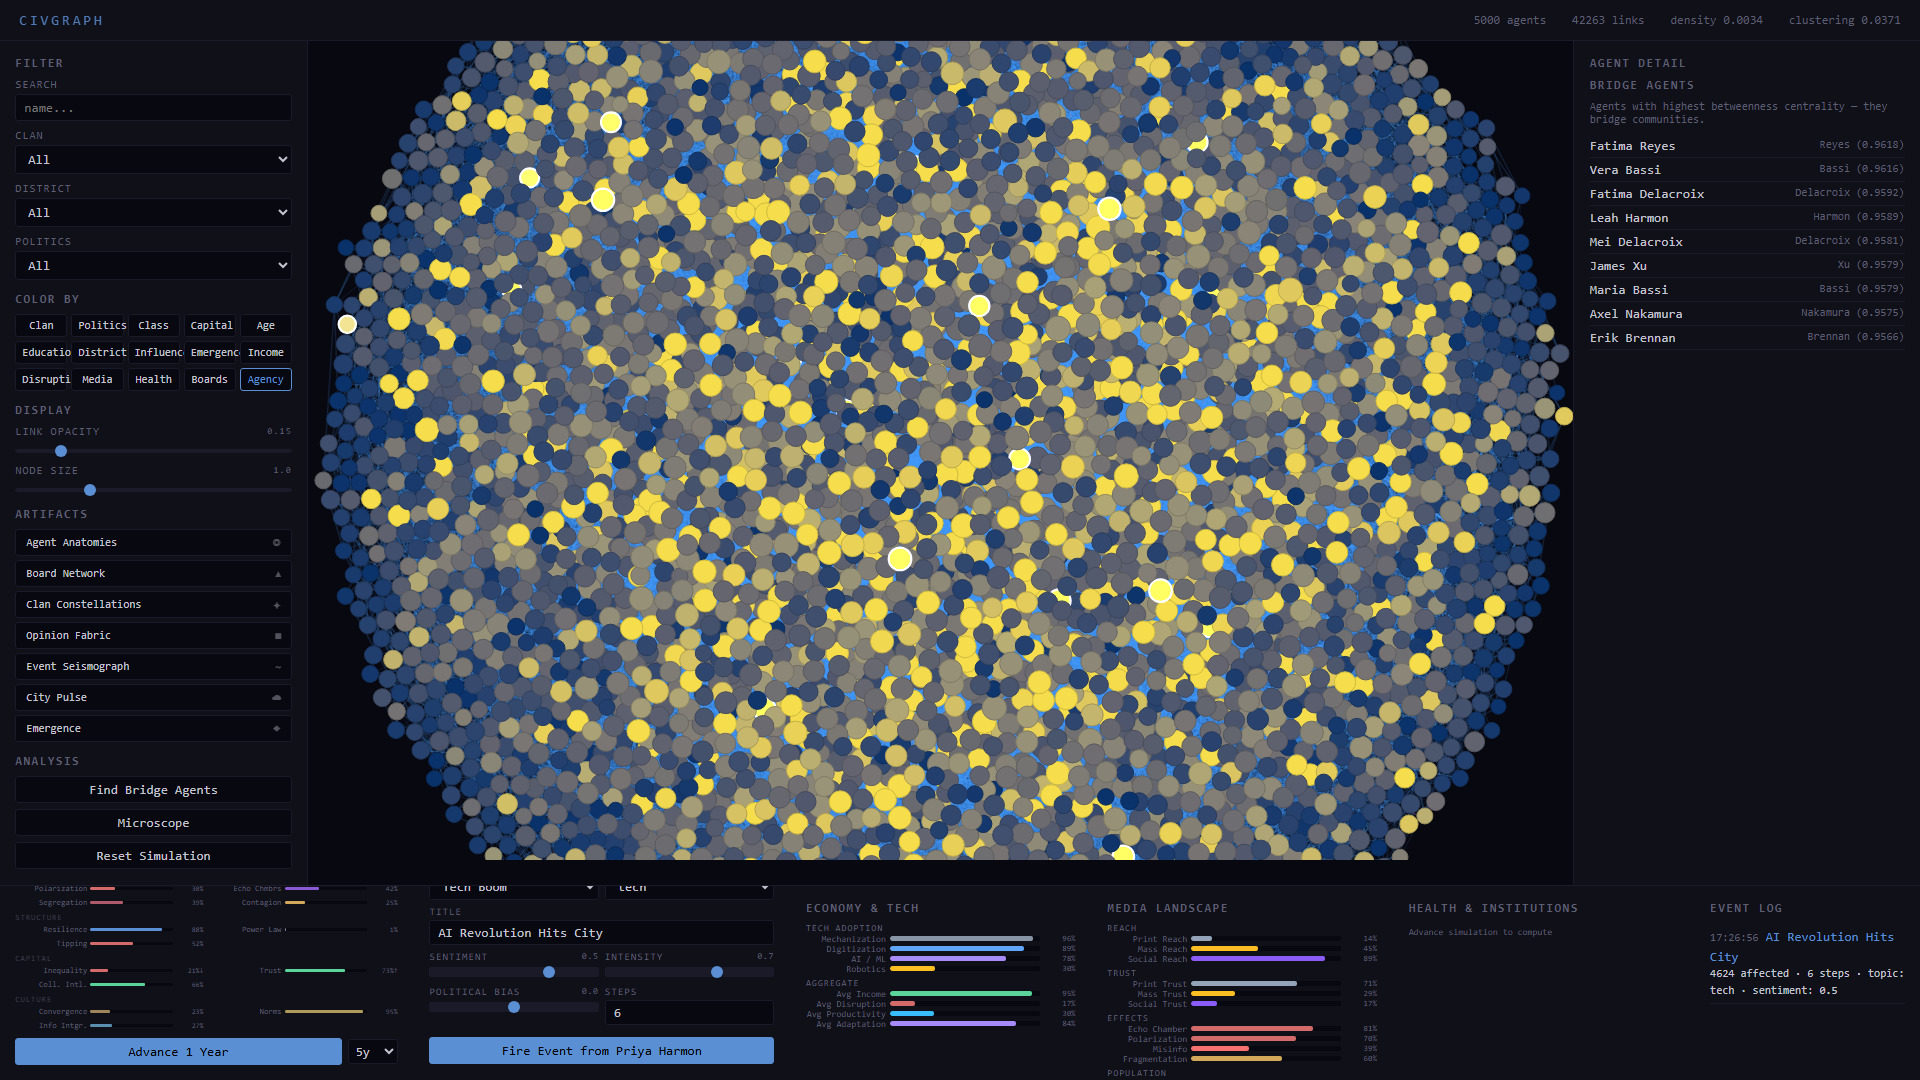
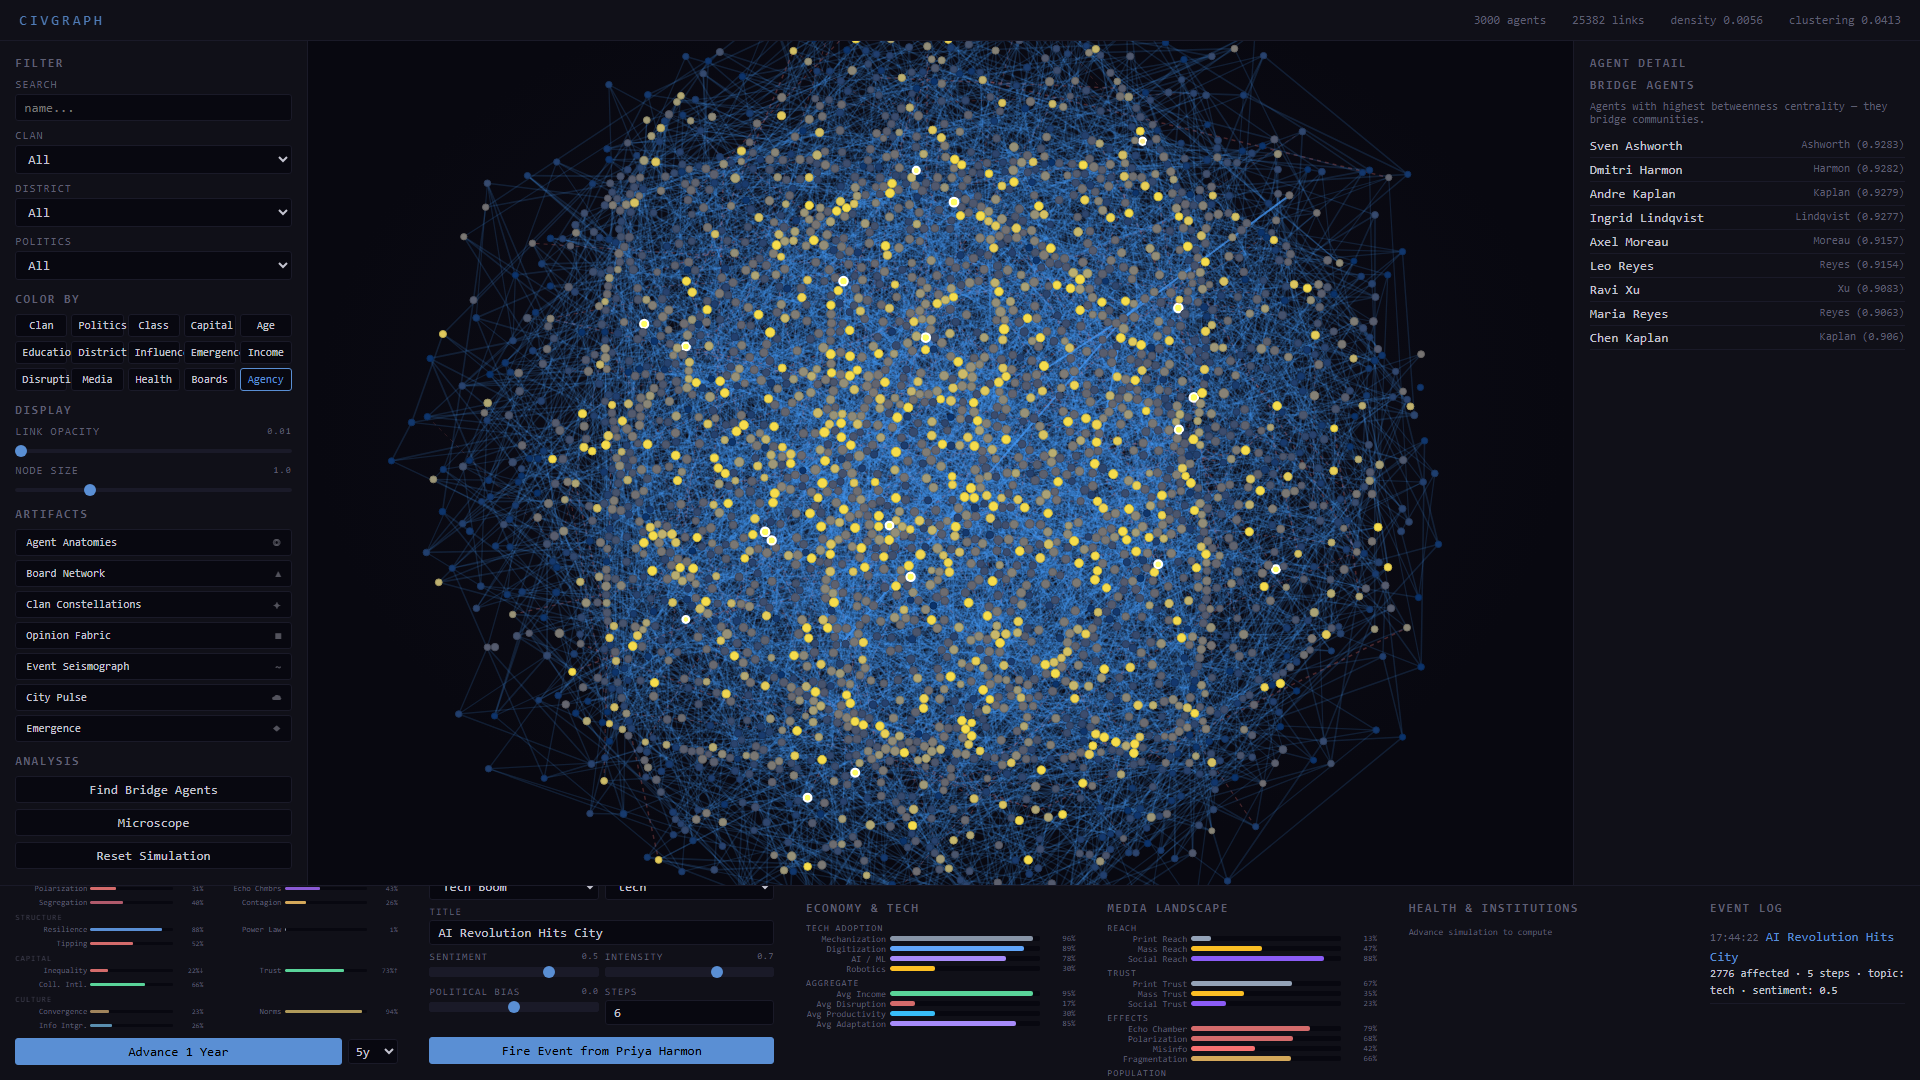
Default 3000 agents, configurable N, density-aware graph rendering
- Default N = 3000 (configurable via POST /api/reset?agents=N, max 10000)
- Node radius scales with sqrt(1000/N) — smaller at higher agent counts
- Link opacity auto-adjusts based on edge count (150/nLinks)
- Edge subsampling: at >15000 edges, only render strongest 30% + rivalries
- Charge strength scales with log10(N/500) for better separation
- Link distances scale inversely with N (tighter at higher N)
- Collision radius scales with density factor
- Alpha decay faster (0.04) at >2000 agents for quicker settling
- Zoom range expanded to 0.05-12x for dense graphs
- All screenshots recaptured: 3000 agents, 30 years, 3 events
- Updated: README, CLAUDE.md, model.py, server.py, app.js

diff --git a/static/app.js b/static/app.js
@@ -107,8 +107,11 @@ function nodeColor(d) {
   }
 }
 
+// Scale factor based on agent count — smaller nodes at higher N
+let densityScale = 1.0;
+
 function nodeRadius(d) {
-  const base = 2 + Math.sqrt(d.influence) * 6 + Math.sqrt(d.degree) * 0.8;
+  const base = (1.5 + Math.sqrt(d.influence) * 4 + Math.sqrt(d.degree) * 0.5) * densityScale;
   return base * nodeSizeMultiplier;
 }
 
@@ -165,11 +168,31 @@ async function init() {
 // ── D3 Force Graph ──────────────────────────────────────────────────────────
 
 let svg, g, linkGroup, nodeGroup, zoomBehavior;
+let visibleLinks = null; // subset of links to render (null = all)
 
 function buildGraph() {
   const container = document.getElementById("graph-container");
   const width = container.clientWidth;
   const height = container.clientHeight;
+
+  const nNodes = graphData.nodes.length;
+  const nLinks = graphData.links.length;
+
+  // Density-aware scaling: smaller nodes and weaker forces at high N
+  densityScale = Math.min(1.0, Math.sqrt(1000 / nNodes));
+  // Adaptive link opacity: lower at high edge counts
+  linkOpacity = Math.min(0.15, 150 / Math.max(1, nLinks));
+  document.getElementById("link-opacity").value = linkOpacity;
+  document.getElementById("link-opacity-val").textContent = linkOpacity.toFixed(2);
+
+  // Only render a fraction of edges when there are too many
+  visibleLinks = graphData.links;
+  if (nLinks > 15000) {
+    const sorted = [...graphData.links].sort((a, b) => Math.abs(b.weight) - Math.abs(a.weight));
+    const cutoff = Math.floor(nLinks * 0.3);
+    const kept = new Set(sorted.slice(0, cutoff));
+    visibleLinks = graphData.links.filter(l => kept.has(l) || l.weight < 0);
+  }
 
   svg = d3.select("#graph-svg").attr("viewBox", [0, 0, width, height]);
   svg.selectAll("*").remove();
@@ -177,7 +200,7 @@ function buildGraph() {
   // Zoom
   zoomBehavior = d3
     .zoom()
-    .scaleExtent([0.1, 8])
+    .scaleExtent([0.05, 12])
     .on("zoom", (event) => {
       g.attr("transform", event.transform);
     });
@@ -187,9 +210,10 @@ function buildGraph() {
   linkGroup = g.append("g").attr("class", "links");
   nodeGroup = g.append("g").attr("class", "nodes");
 
-  // Scale forces to viewport
+  // Scale forces to viewport and agent count
   const dim = Math.min(width, height);
-  const chargeStrength = -20 - dim * 0.015;
+  const chargeStrength = (-15 - dim * 0.01) * (1 + Math.log10(nNodes / 500));
+  const linkDistScale = 0.5 + 500 / nNodes;  // shorter distances at high N
 
   // Force simulation
   simulation = d3
@@ -201,14 +225,14 @@ function buildGraph() {
         .id((d) => d.id)
         .distance((d) => {
           const w = Math.abs(d.weight);
-          return 40 + (1 - w) * 80;
+          return (30 + (1 - w) * 60) * linkDistScale;
         })
-        .strength((d) => Math.abs(d.weight) * 0.3)
+        .strength((d) => Math.abs(d.weight) * 0.2)
     )
     .force("charge", d3.forceManyBody().strength(chargeStrength).distanceMax(dim * 0.5))
     .force("center", d3.forceCenter(width / 2, height / 2))
-    .force("collision", d3.forceCollide().radius((d) => nodeRadius(d) + 1))
-    .alphaDecay(0.02)
+    .force("collision", d3.forceCollide().radius((d) => nodeRadius(d) + 0.5 * densityScale))
+    .alphaDecay(nNodes > 2000 ? 0.04 : 0.02)
     .on("tick", ticked);
 
   renderLinks();
@@ -216,9 +240,10 @@ function buildGraph() {
 }
 
 function renderLinks() {
+  const linksToRender = visibleLinks || graphData.links;
   const link = linkGroup
     .selectAll("line")
-    .data(graphData.links, (d) => d.source.id + "-" + d.target.id);
+    .data(linksToRender, (d) => (d.source.id || d.source) + "-" + (d.target.id || d.target));
 
   link.exit().remove();
 
@@ -688,7 +713,7 @@ async function refreshNodeOpinions() {
   // (more efficient: just re-fetch graph which includes opinion data)
   // The graph endpoint doesn't include opinion_state, so we need the agents endpoint
   // For efficiency, fetch a sample to populate _opinions
-  const allAgents = await fetch("/api/search?limit=5000").then((r) => r.json());
+  const allAgents = await fetch("/api/search?limit=3000").then((r) => r.json());
   const agentMap = {};
   for (const a of allAgents) agentMap[a.id] = a;
   for (const n of graphData.nodes) {
@@ -869,7 +894,7 @@ async function openArtifact(type) {
       break;
     case "topography":
       // Fetch full agent data with institutions for the board visualization
-      const agentsFull = await safeFetch("/api/search?limit=5000");
+      const agentsFull = await safeFetch("/api/search?limit=3000");
       Artifacts.renderTopography(agentsFull || nodes);
       break;
     case "constellation":

diff --git a/server.py b/server.py
@@ -57,6 +57,7 @@ app = FastAPI(title="CivGraph", version="0.1.0")
 MAX_EVENT_HISTORY = 200
 MAX_PROPAGATION_STEPS = 20
 MAX_SEARCH_LIMIT = 5000
+DEFAULT_AGENTS = 3000
 SAVE_DIR = Path(__file__).parent / "saves"
 SAVE_DIR.mkdir(exist_ok=True)
 AUTO_SAVE_ENABLED = False
@@ -75,7 +76,7 @@ MEDIA: MediaLandscape | None = None
 def ensure_graph(seed: int | None = 42) -> nx.Graph:
     global GRAPH, ENV, EMERGENCE, MEDIA
     if GRAPH is None:
-        GRAPH = generate_city(5000, seed=seed)
+        GRAPH = generate_city(DEFAULT_AGENTS, seed=seed)
         ENV = create_environment(seed)
         MEDIA = create_media_landscape(seed)
         ENV.media_landscape = MEDIA
@@ -140,9 +141,10 @@ async def microscope():
 # ── REST API ─────────────────────────────────────────────────────────────────
 
 @app.post("/api/reset")
-async def reset_graph(seed: int = 42):
+async def reset_graph(seed: int = 42, agents: int = Query(default=0, ge=0, le=10000)):
     global GRAPH, EVENT_HISTORY, ENV, EMERGENCE, MEDIA
-    GRAPH = generate_city(1000, seed=seed)
+    n = agents if agents > 0 else DEFAULT_AGENTS
+    GRAPH = generate_city(n, seed=seed)
     ENV = create_environment(seed)
     MEDIA = create_media_landscape(seed)
     ENV.media_landscape = MEDIA

diff --git a/model.py b/model.py
@@ -1,7 +1,7 @@
 """
 CivGraph — Agent-based modeling on a social graph.
 
-Core model: 5000 individuals in a mid-scale city, each with clan ties,
+Core model: 3000 individuals (configurable) in a mid-scale city, each with clan ties,
 interests, political leanings, Bourdieusian capital, habitus, task-based
 economic activities, media consumption, health status, institutional
 memberships (boards, associations, clubs), and lifecycle-dependent

diff --git a/README.md b/README.md
@@ -1,8 +1,8 @@
 # CivGraph
 
-An agent-based model of urban social dynamics, built on Pierre Bourdieu's theory of capital and habitus, deepened by Actor-Network Theory (Latour, Callon, Law). 5,000 individuals in a mid-scale city form a heterogeneous network where influence, opinion, and power flow through clan ties, professional bonds, institutional memberships, and shared dispositions -- shaped by macro forces of economy, housing, migration, culture, and governance, disrupted by waves of technological change (modeled as non-human actants), refracted through print, mass, and social media, grounded in the social determinants of health, and analyzed through the lens of translation sociology, performativity, and obligatory passage points.
+An agent-based model of urban social dynamics, built on Pierre Bourdieu's theory of capital and habitus, deepened by Actor-Network Theory (Latour, Callon, Law). 3,000 individuals (configurable up to 10,000) in a mid-scale city form a heterogeneous network where influence, opinion, and power flow through clan ties, professional bonds, institutional memberships, and shared dispositions -- shaped by macro forces of economy, housing, migration, culture, and governance, disrupted by waves of technological change (modeled as non-human actants), refracted through print, mass, and social media, grounded in the social determinants of health, and analyzed through the lens of translation sociology, performativity, and obligatory passage points.
 
-![The social graph of a city -- 5,000 agents colored by clan affiliation, with economy, media, and health panels visible](docs/01-main-graph.png)
+![The social graph of a city -- 3,000 agents colored by clan affiliation, with economy, media, and health panels visible](docs/01-main-graph.png)
 
 ## Quick Start
 
@@ -382,7 +382,7 @@ environment.py   -- 26 indicators across 7 domains, endogenous
                     dynamics, bidirectional agent coupling.
 capital.py       -- Bourdieu's four capitals, habitus, lifecycle,
                     intergenerational transmission.
-model.py         -- Agent dataclass, city generator (5,000 agents,
+model.py         -- Agent dataclass, city generator (3,000 agents,
                     9 edge types), D3 export.
 events.py        -- Capital-aware BFS propagation, media amplification,
                     coalition detection.

diff --git a/CLAUDE.md b/CLAUDE.md
@@ -18,7 +18,7 @@ The `screenshot.py` is a permanent part of the repo -- don't delete it. Extend i
 
 ## Architecture Overview
 
-- `model.py` -- Agent dataclass, city generator (5,000 agents, 9 edge types)
+- `model.py` -- Agent dataclass, city generator (3,000 agents (configurable), 9 edge types)
 - `capital.py` -- Bourdieu's four capitals, habitus, lifecycle, intergenerational transmission
 - `economy.py` -- Task-based economic model, 4 tech waves, Autor framework
 - `media.py` -- Print/mass/social media ecosystems, echo chambers, algorithmic bubbles
